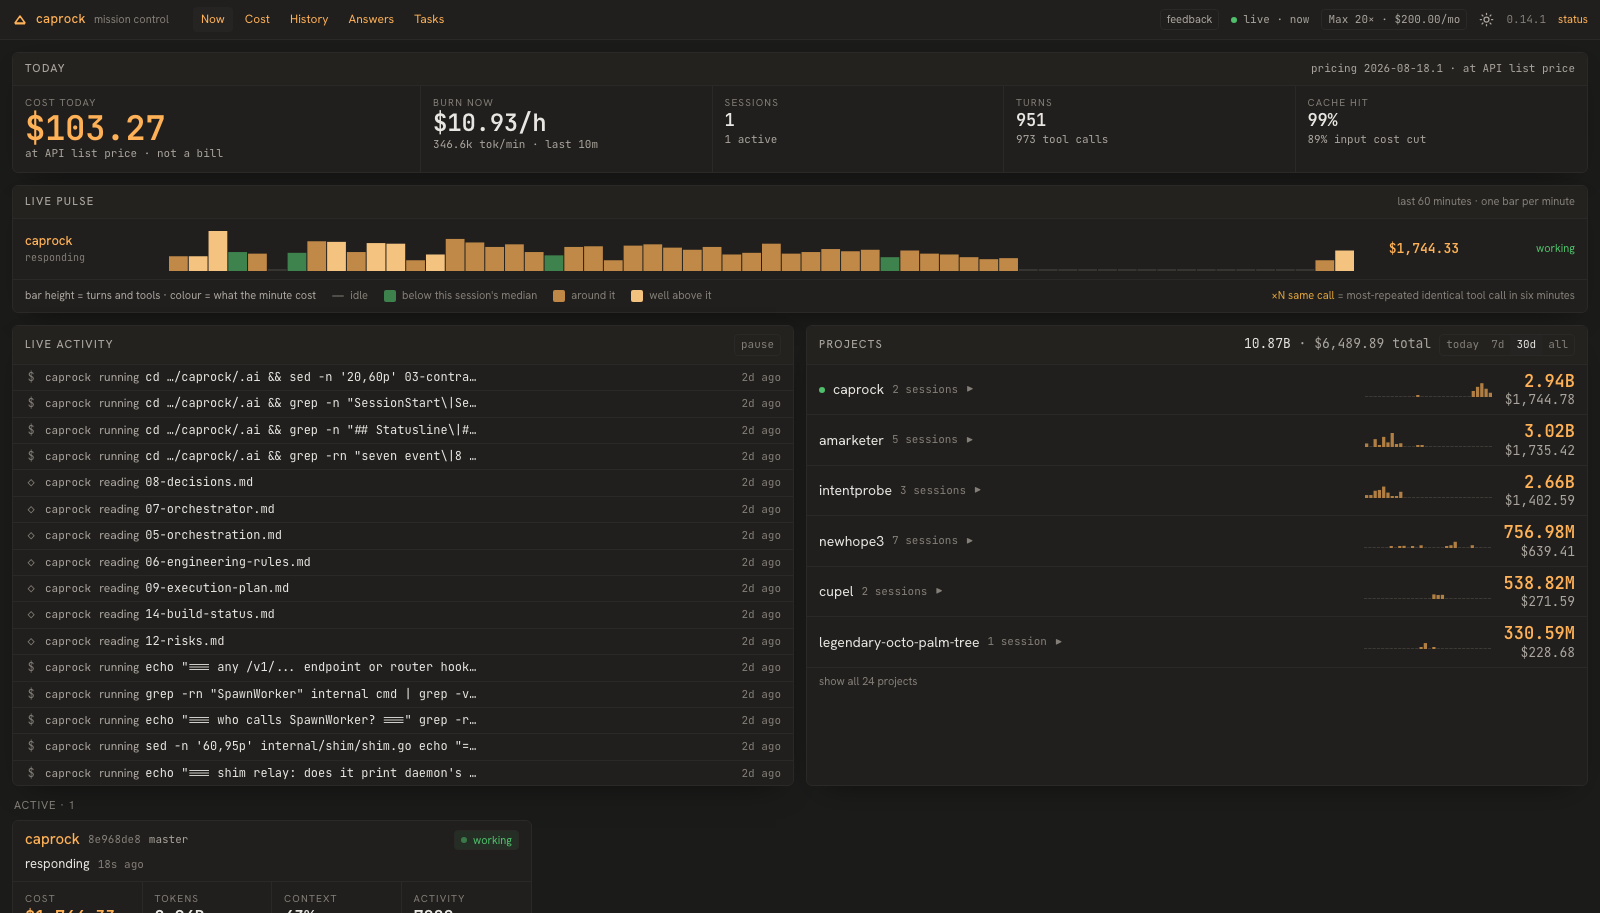
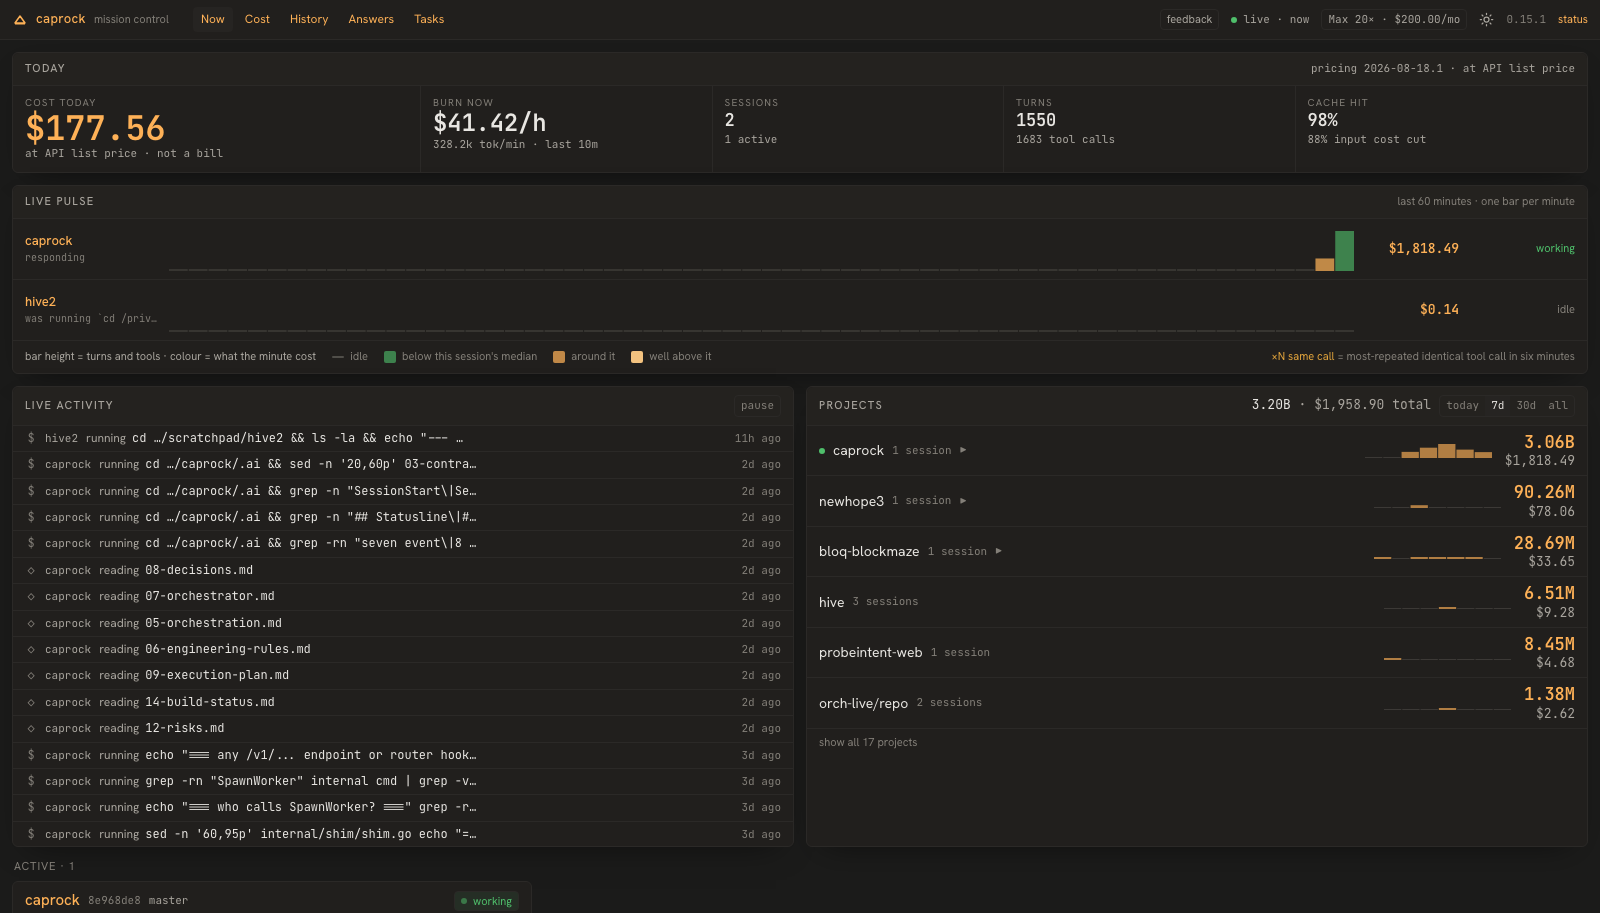
docs: refresh the screenshots for v0.15.1, and add the task runner
The screenshots were taken at v0.14.1, before the Tasks screen was rebuilt,
so the one screen this week's work changed most was the one nowhere in the
documentation. There is now a shot of it, in both themes, and the README's
task-runner section leads with it.

The build status and index still said v0.12.0 was the last tag, four
releases behind.

https://claude.ai/code/session_01DR8fggA2LRHcjNWUsqtDcF

diff --git a/.ai/14-build-status.md b/.ai/14-build-status.md
@@ -2,7 +2,7 @@
 
 The running log: what is done, what is not, what is next. **Update this file and § Current State in [00-index.md](00-index.md) whenever the state of the world changes.** Dates in absolute form, never "last week". What "done" means per task is defined in [09-execution-plan.md](09-execution-plan.md).
 
-**Last updated: 2026-08-22** · Phase **2 — Orchestrate, complete** · **v0.1.0–v0.12.0 are all tagged and published** (Homebrew formula in `dspv/homebrew-tap` — `brew install dspv/tap/caprock`). The live unattended orchestrator run (the Phase 2 tag gate) is done — a real `claude` orchestrator autonomously assigned a task, spawned a worker, and drove it to green verification. Post-Orchestrate: v0.4.0 = plan-limit windows + orchestrator-lifecycle fixes + Homebrew formula; v0.4.1 = the formula ships the hook shim + honest hook status; v0.5.0 = distribution polish (statusLine auto-install, honest first-run errors, readable MCP names, a release CI-gate, CODE_OF_CONDUCT); **v0.5.1 = Windows install via Scoop (`dspv/scoop-bucket`) + a README project map; **v0.6.0 = light theme + `go install` with a real embedded UI; **v0.7.0 = per-project spend on Now, larger numbers, and the graph out of the top nav; **v0.8.0 = the three owner-agreed surfaces — a live activity feed, plan value (API-priced usage against the stated subscription), and an attention strip for loops/errors/stalls.** v0.8.1 = the optional update notice (B2 closed). **v0.9.0 = Answers (B0): Claude's own prose, searchable across sessions, plus the byte-truncation repair.** **v0.9.8 = interface hierarchy plus four honesty fixes: every cost figure states its basis, percentages floor, and the live indicator no longer freezes.** **v0.10.0 = the live pulse: a track per session, one bar per minute, where the shape of the track is the shape of the work.** **v0.9.9 = eight defects found by hunting rather than by tests — a third of the active-day count missing, settings wiped by a partial body, tasks lost when created together, and an unknown API path answering 200 with a web page.** Next: backlog B3 (Claude desktop usage) in [09-execution-plan.md](09-execution-plan.md). The orchestration graph shipped but did not earn a nav slot; see [04-ui.md § Graph](04-ui.md).
+**Last updated: 2026-08-22** · Phase **2 — Orchestrate, complete** · **v0.1.0–v0.15.1 are all tagged and published** (Homebrew formula in `dspv/homebrew-tap` — `brew install dspv/tap/caprock`). The live unattended orchestrator run (the Phase 2 tag gate) is done — a real `claude` orchestrator autonomously assigned a task, spawned a worker, and drove it to green verification. Post-Orchestrate: v0.4.0 = plan-limit windows + orchestrator-lifecycle fixes + Homebrew formula; v0.4.1 = the formula ships the hook shim + honest hook status; v0.5.0 = distribution polish (statusLine auto-install, honest first-run errors, readable MCP names, a release CI-gate, CODE_OF_CONDUCT); **v0.5.1 = Windows install via Scoop (`dspv/scoop-bucket`) + a README project map; **v0.6.0 = light theme + `go install` with a real embedded UI; **v0.7.0 = per-project spend on Now, larger numbers, and the graph out of the top nav; **v0.8.0 = the three owner-agreed surfaces — a live activity feed, plan value (API-priced usage against the stated subscription), and an attention strip for loops/errors/stalls.** v0.8.1 = the optional update notice (B2 closed). **v0.9.0 = Answers (B0): Claude's own prose, searchable across sessions, plus the byte-truncation repair.** **v0.9.8 = interface hierarchy plus four honesty fixes: every cost figure states its basis, percentages floor, and the live indicator no longer freezes.** **v0.10.0 = the live pulse: a track per session, one bar per minute, where the shape of the track is the shape of the work.** **v0.9.9 = eight defects found by hunting rather than by tests — a third of the active-day count missing, settings wiped by a partial body, tasks lost when created together, and an unknown API path answering 200 with a web page.** Next: backlog B3 (Claude desktop usage) in [09-execution-plan.md](09-execution-plan.md). The orchestration graph shipped but did not earn a nav slot; see [04-ui.md § Graph](04-ui.md).
 
 ## Progress by track
 
@@ -37,7 +37,7 @@ Percentages are deliberately coarse — they answer "is this track started, half
 
 ## What is true right now
 
-- **All three phases are built and green.** The Go module + `ui/` exist and are exercised by `make check` (Go tests, `go vet`, `golangci-lint`, docs gates, and the UI typecheck/vitest/build) on the 3-OS CI matrix. Phase 2's orchestration loop has been driven end to end by a real `claude` orchestrator (see the Phase 2 log entry). **v0.1.0–v0.12.0 are all tagged and published** (Homebrew formula in `dspv/homebrew-tap`).
+- **All three phases are built and green.** The Go module + `ui/` exist and are exercised by `make check` (Go tests, `go vet`, `golangci-lint`, docs gates, and the UI typecheck/vitest/build) on the 3-OS CI matrix. Phase 2's orchestration loop has been driven end to end by a real `claude` orchestrator (see the Phase 2 log entry). **v0.1.0–v0.15.1 are all tagged and published** (Homebrew formula in `dspv/homebrew-tap`).
 - The Python measurer (`~/dev/caprock-legacy`, PyPI `caprock` 0.3.0) is frozen ([ADR-007](08-decisions.md#adr-007--the-harness-is-caprock-new-go-codebase-in-dspvcaprock-python-measurer-frozen)); the Go binary shipped its first release as **v0.1.0** on 2026-08-19.
 - Toolchain versions in [10-infrastructure.md](10-infrastructure.md) were checked on 2026-08-18 and are now exercised in CI.
 

diff --git a/.ai/00-index.md b/.ai/00-index.md
@@ -40,7 +40,7 @@ Supporting directories:
 **Last updated: 2026-08-22** · Owner: Dima · Phase: **Phase 2 — Orchestrate, complete; v0.1.0–v0.9.7 tagged + published**
 
 - **Documentation:** corpus built from the spec on 2026-08-18; loss audit green; spec deleted; kept current with the code.
-- **Code:** all three phases built and green on the 3-OS CI matrix. **v0.1.0–v0.12.0 are all tagged and published** (through 2026-08-20; Homebrew formula in `dspv/homebrew-tap` — `brew install dspv/tap/caprock`). Post-Orchestrate releases are polish: v0.4.0 (plan-limit windows, orchestrator-lifecycle fixes, formula), v0.4.1 (formula ships the hook shim), v0.5.0 (statusLine auto-install, honest first-run errors, readable MCP names, release CI-gate, CODE_OF_CONDUCT), v0.5.1 (Windows install via Scoop + README project map), v0.6.0 (light theme, `go install` with a real UI), v0.7.0 (per-project spend on Now, larger numbers, graph out of the nav), v0.8.0 (live activity feed, plan value, attention strip). The Phase 2 tag gate — a live unattended orchestrator run with hooks — passed (a real `claude` orchestrator drove a task to green verification with no human input). Three orchestration defects were fixed on 2026-08-21: per-task cost attribution (closed on the wrong identifier, so every task read $0 and a finished task kept accruing), verification stranding a task moved from an illegal status, and `budget_usd` being decorative — it is now enforced on the reconciler tick. See [14-build-status.md](14-build-status.md) for the live per-track state.
+- **Code:** all three phases built and green on the 3-OS CI matrix. **v0.1.0–v0.15.1 are all tagged and published** (through 2026-08-20; Homebrew formula in `dspv/homebrew-tap` — `brew install dspv/tap/caprock`). Post-Orchestrate releases are polish: v0.4.0 (plan-limit windows, orchestrator-lifecycle fixes, formula), v0.4.1 (formula ships the hook shim), v0.5.0 (statusLine auto-install, honest first-run errors, readable MCP names, release CI-gate, CODE_OF_CONDUCT), v0.5.1 (Windows install via Scoop + README project map), v0.6.0 (light theme, `go install` with a real UI), v0.7.0 (per-project spend on Now, larger numbers, graph out of the nav), v0.8.0 (live activity feed, plan value, attention strip). The Phase 2 tag gate — a live unattended orchestrator run with hooks — passed (a real `claude` orchestrator drove a task to green verification with no human input). Three orchestration defects were fixed on 2026-08-21: per-task cost attribution (closed on the wrong identifier, so every task read $0 and a finished task kept accruing), verification stranding a task moved from an illegal status, and `budget_usd` being decorative — it is now enforced on the reconciler tick. See [14-build-status.md](14-build-status.md) for the live per-track state.
 - **Unmeasured / undecided:** see [12-risks.md § Open questions](12-risks.md#open-questions); `OQ-01`, `OQ-03`, and `OQ-07` are resolved (all open questions OQ-01–09 are closed); no open question blocks shipping.
 
 ## Rules of engagement — non-negotiable

diff --git a/README.md b/README.md
@@ -168,8 +168,11 @@ Nothing to change in your workflow — it starts by watching the sessions you al
 
 ## Run tasks unattended (advanced, opt-in)
 
+![The task runner, off](docs/shot-tasks.png)
+
 This is the one part of Caprock that starts sessions on its own, so it is off
-unless you ask for it. The honest description is **an unattended task runner
+unless you ask for it. Turn it on from the Tasks screen — the button creates the
+queue directory and starts the board without restarting the daemon. The honest description is **an unattended task runner
 with a test gate**: the closest thing you already know is a git worktree plus a
 shell loop. What it adds is that a worker cannot stop early, a failing check
 bounces back with its output attached, spend is attributed per task against a
